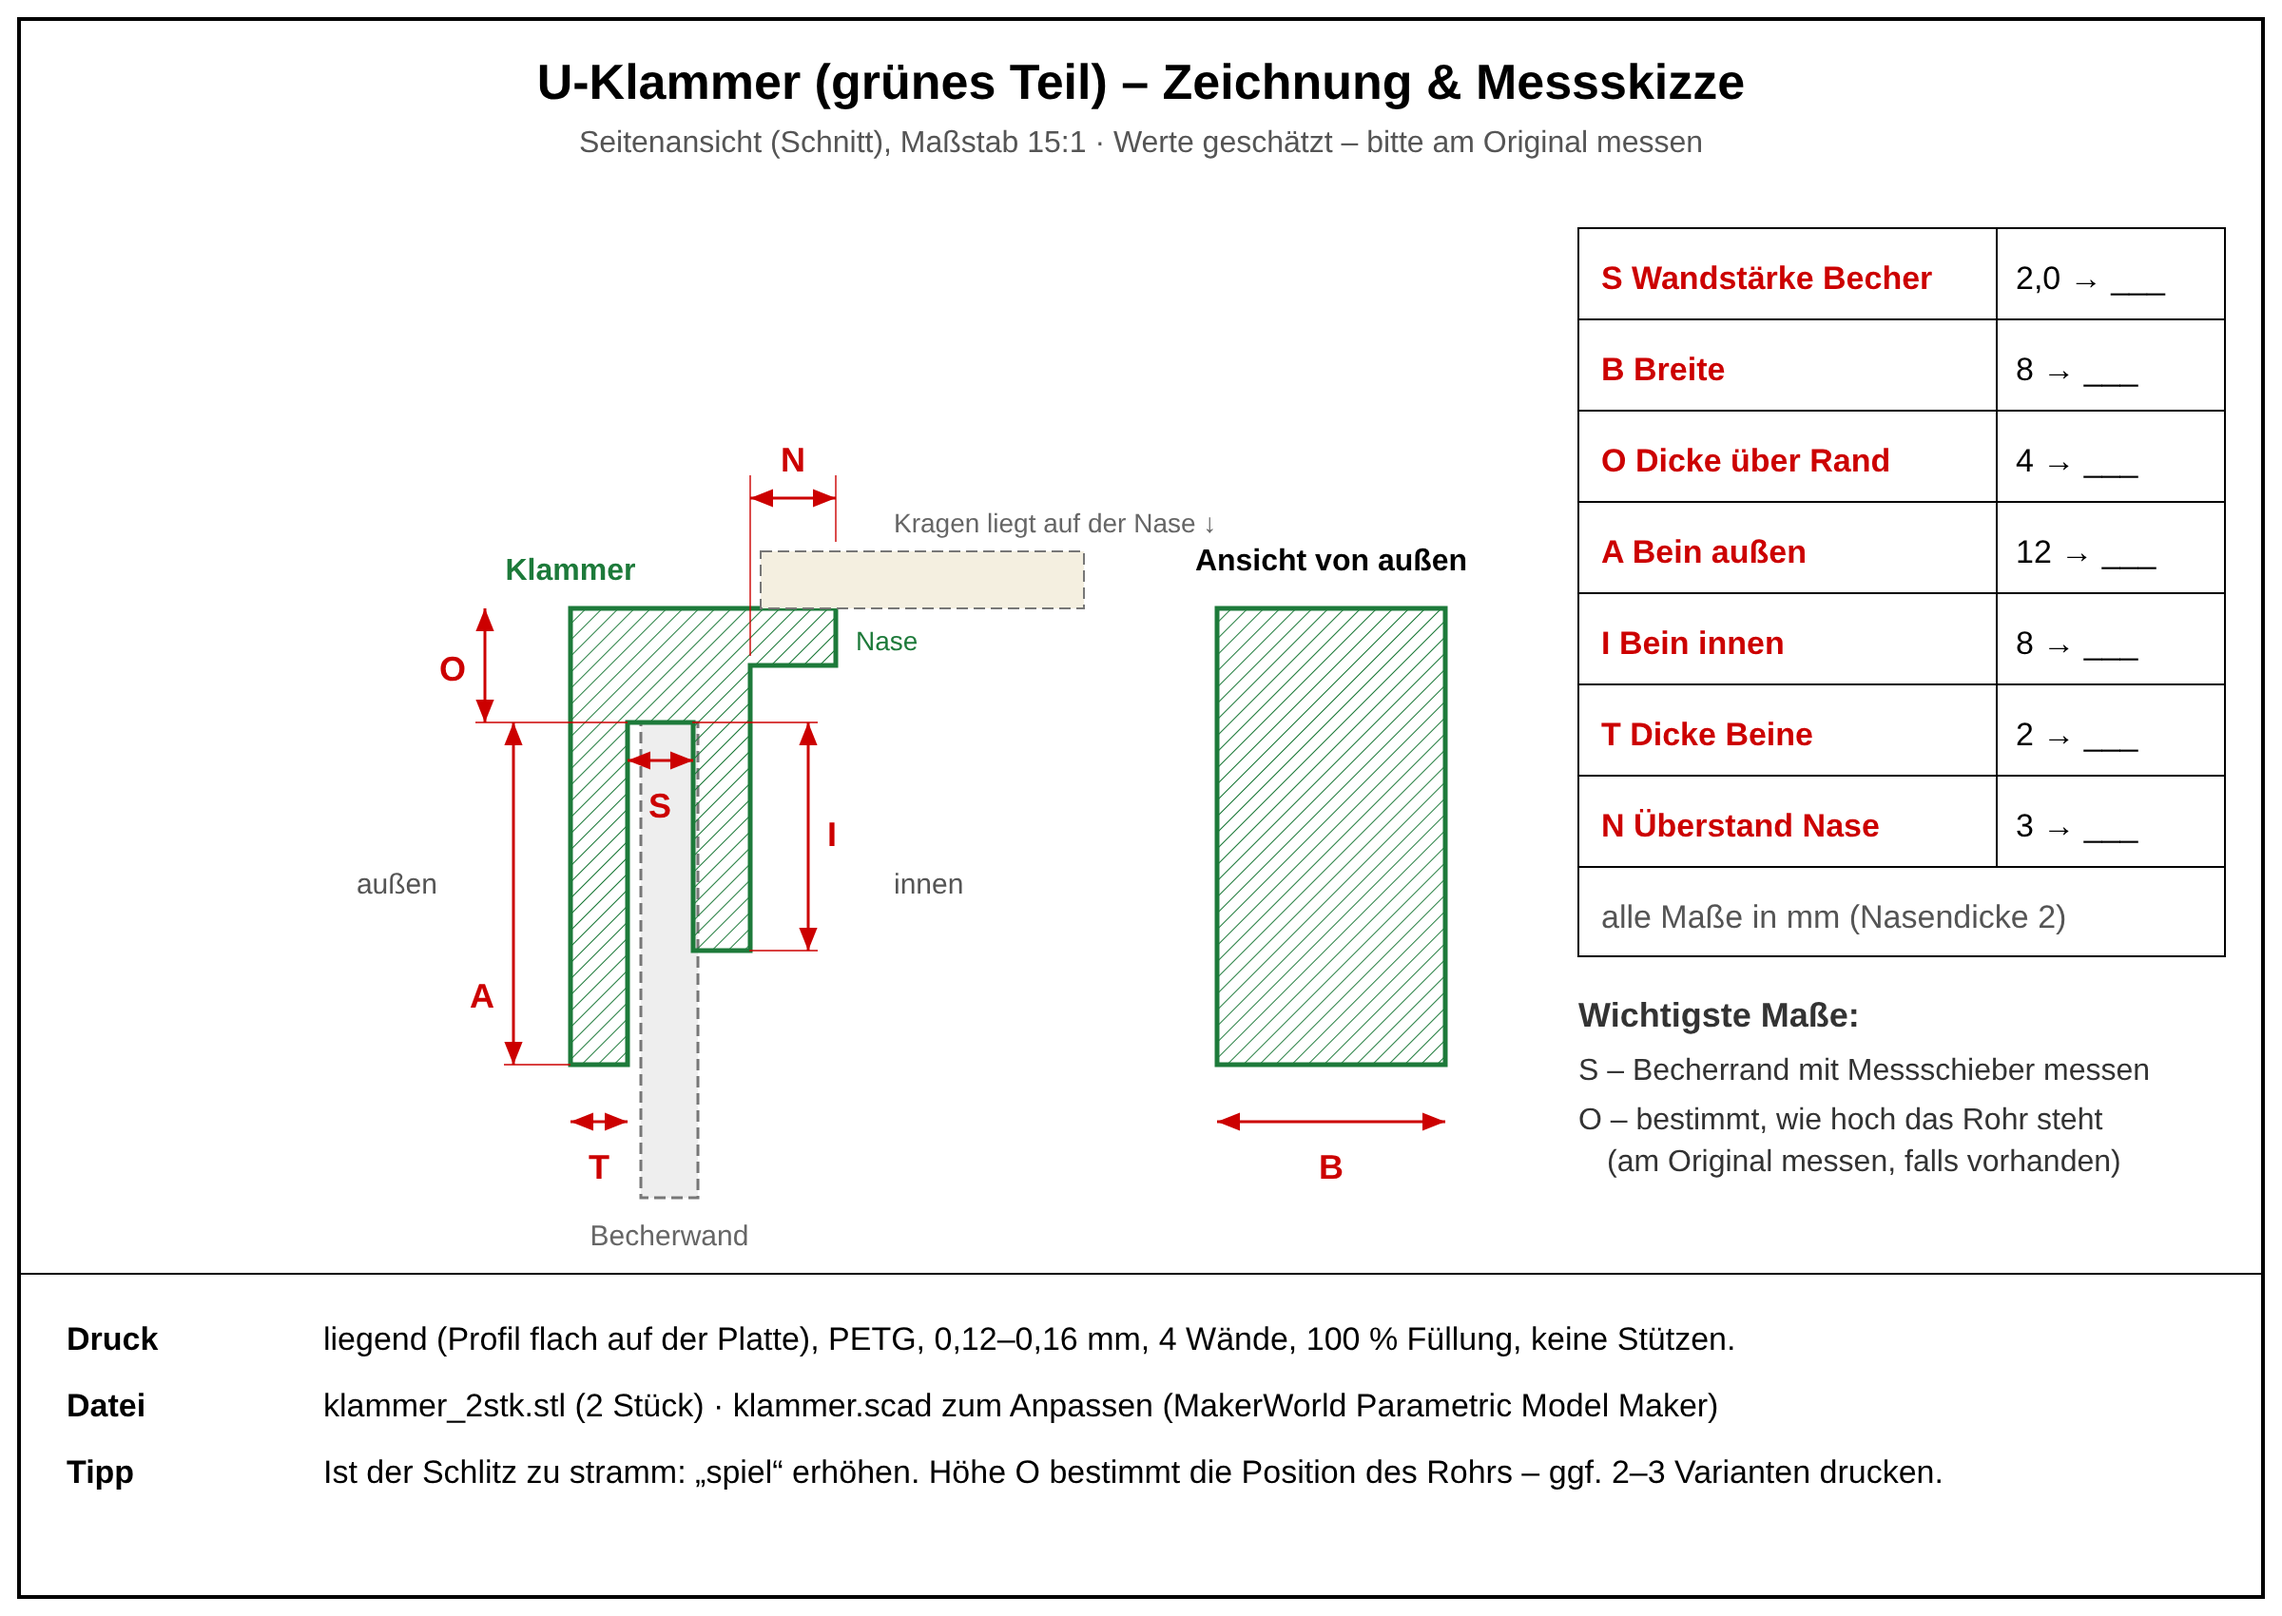
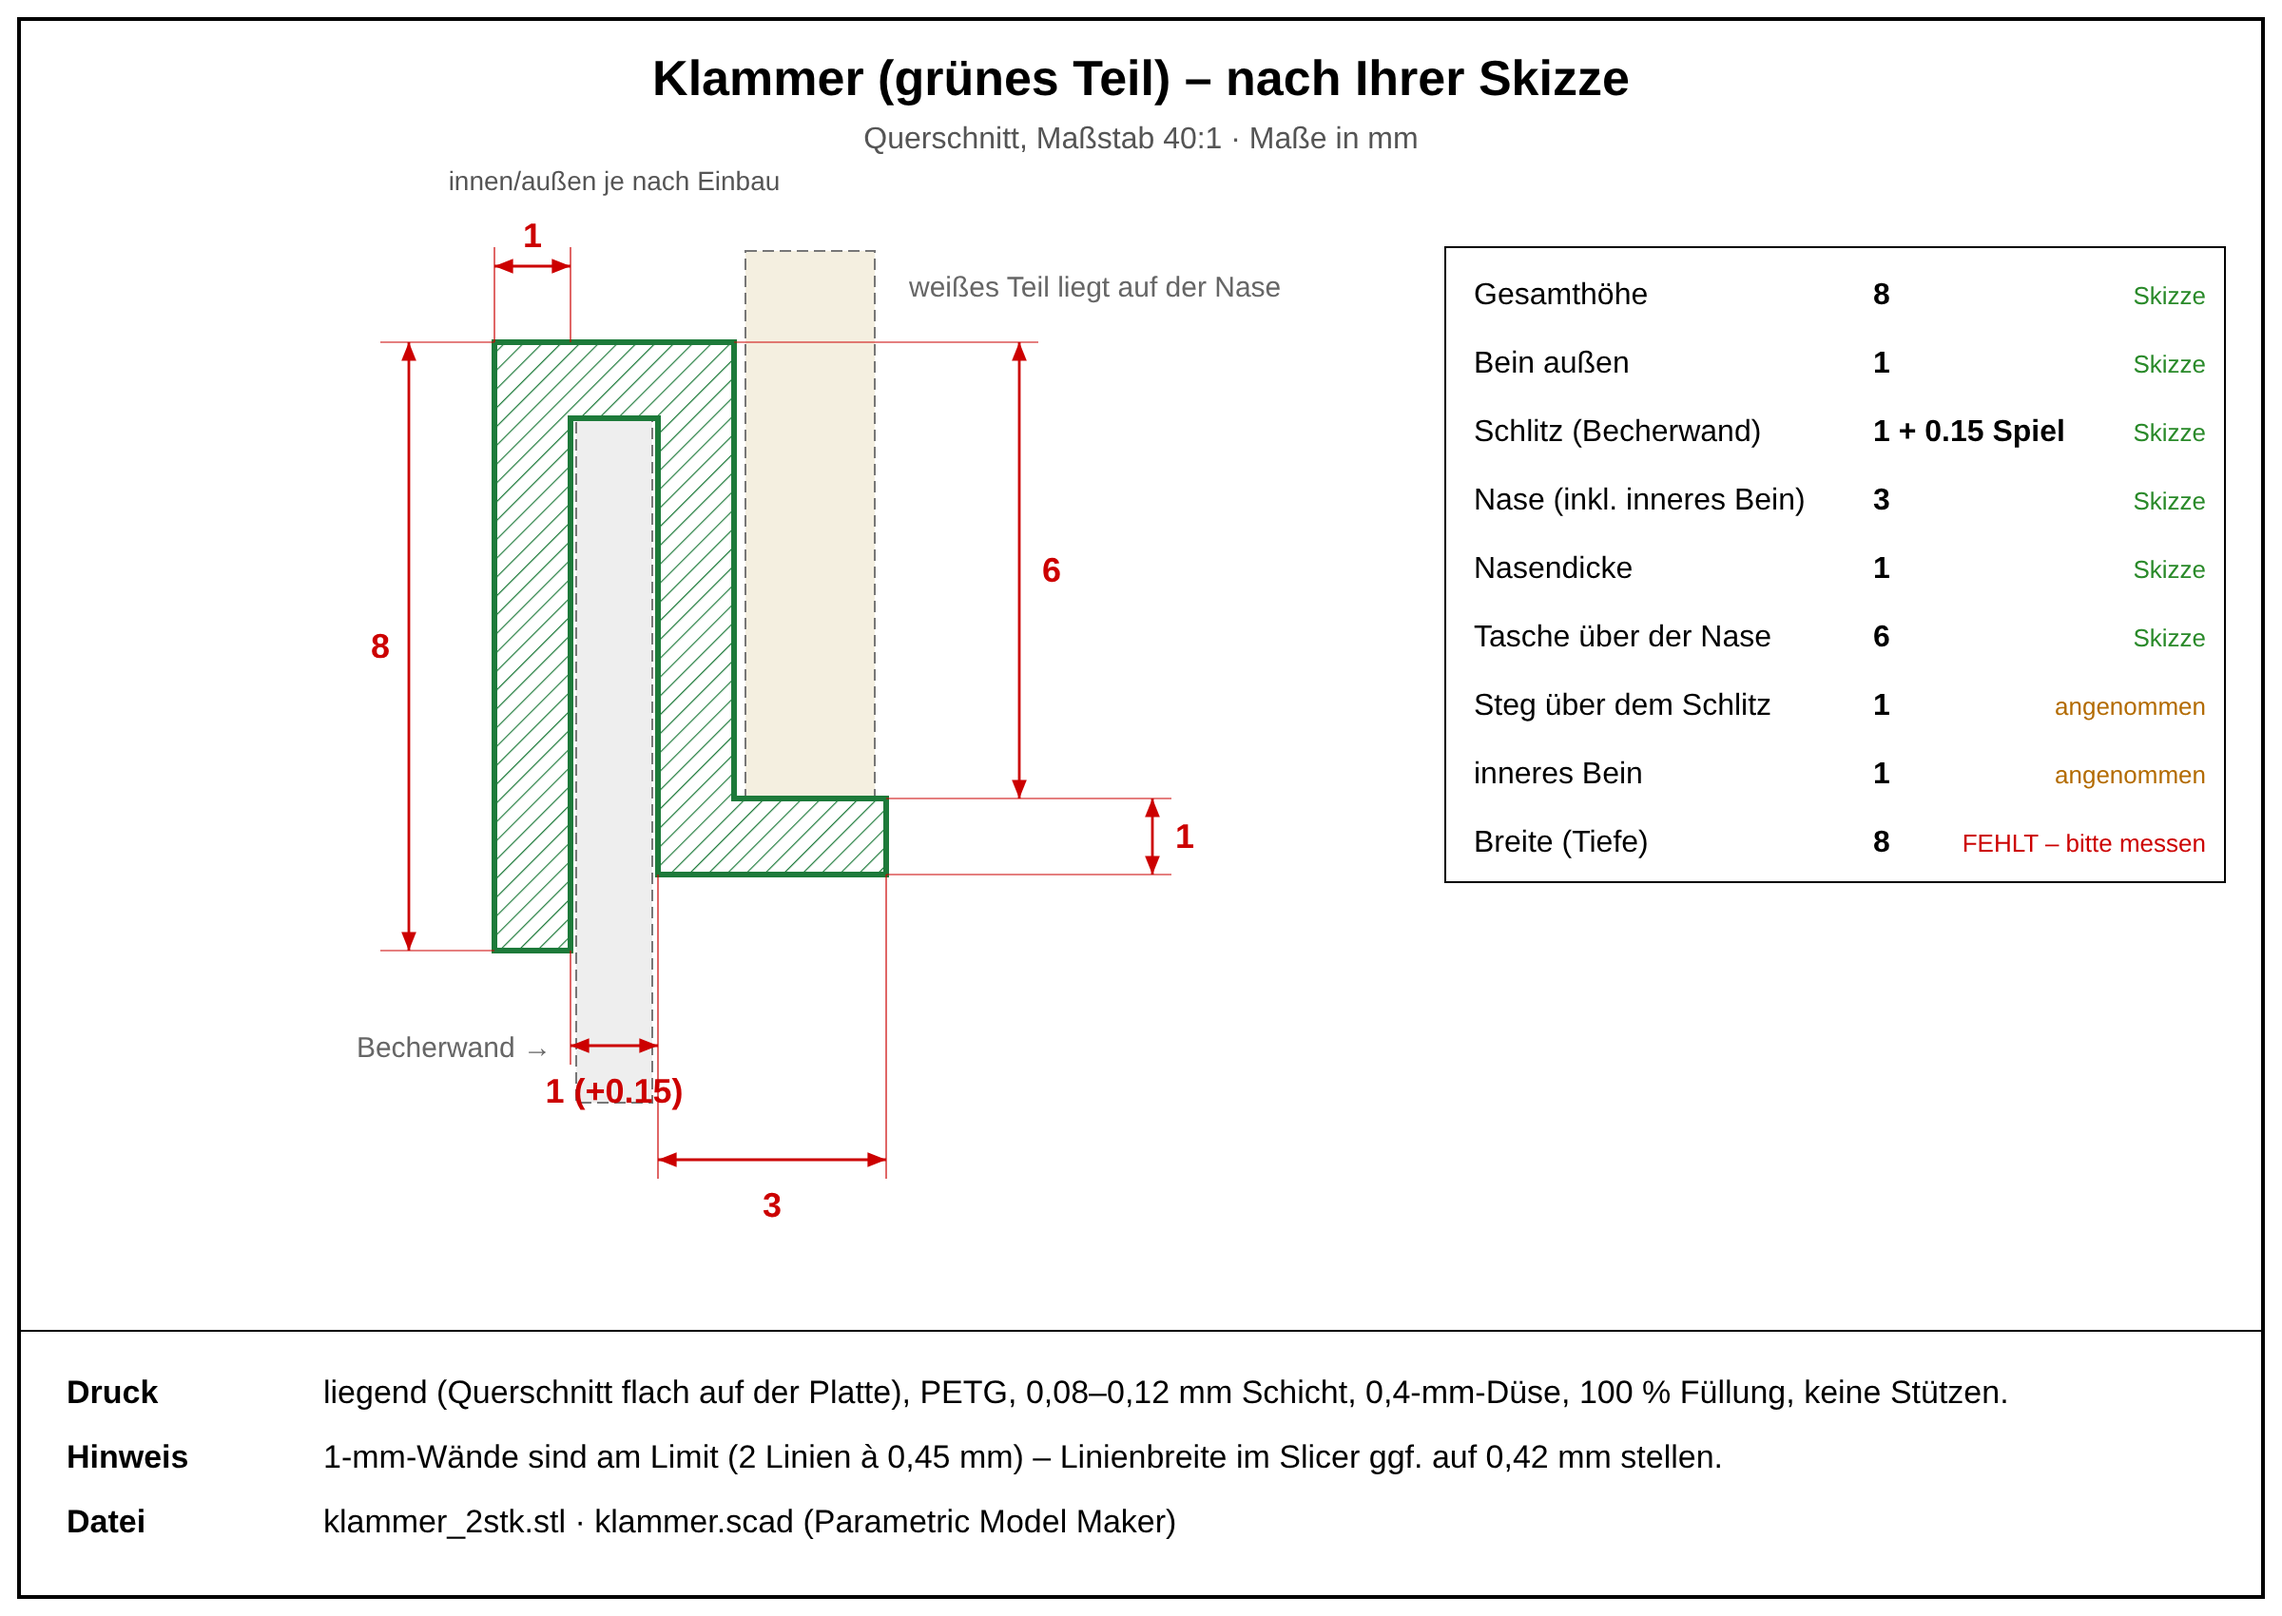
Klammer nach Handskizze des Originals (8 mm hoch, 1-mm-Schlitz, Nase 3x1, Tasche 6)
Claude-Session: https://claude.ai/code/session_015ejh95KRpQS69T9Nq83a24

diff --git a/geberit-klammer/skizze.py b/geberit-klammer/skizze.py
@@ -1,0 +1,68 @@
+#!/usr/bin/env python3
+"""Erzeugt skizze.svg aus den Massen in generate.py."""
+import generate as G
+S = 40.0  # 40:1
+ox, oy = 260, 500          # Ursprung (Unterkante aeusseres Bein)
+X = lambda x: ox + x * S
+Y = lambda y: oy - y * S
+p = G.profil()
+s = G.SCHLITZ + G.SPIEL
+x1, x2, x3 = G.BEIN, G.BEIN + s, G.BEIN + s + G.BEIN_I
+xn = G.BEIN + s + G.NASE_B
+yo = G.HOEHE - G.TASCHE; yu = yo - G.NASE_D; ys = G.HOEHE - G.STEG_OBEN
+o = []; A = o.append
+A('<svg xmlns="http://www.w3.org/2000/svg" width="1200" height="850" viewBox="0 0 1200 850" font-family="Arial, sans-serif">')
+A('<defs><marker id="a" viewBox="0 0 10 10" refX="10" refY="5" markerWidth="7" markerHeight="7" orient="auto-start-reverse"><path d="M0,1 L10,5 L0,9 z" fill="#c00"/></marker>'
+  '<pattern id="h" width="7" height="7" patternUnits="userSpaceOnUse" patternTransform="rotate(45)"><line x1="0" y1="0" x2="0" y2="7" stroke="#1d7a3a" stroke-width="1.2"/></pattern></defs>')
+A('<rect width="1200" height="850" fill="#fff"/><rect x="10" y="10" width="1180" height="830" fill="none" stroke="#000" stroke-width="2"/>')
+A('<text x="600" y="50" font-size="26" font-weight="bold" text-anchor="middle">Klammer (grünes Teil) – nach Ihrer Skizze</text>')
+A('<text x="600" y="78" font-size="16" text-anchor="middle" fill="#555">Querschnitt, Maßstab 40:1 · Maße in mm</text>')
+# Becherwand im Schlitz, weisses Teil auf der Nase
+A(f'<rect x="{X(G.BEIN+G.SPIEL/2):.1f}" y="{Y(G.HOEHE-G.STEG_OBEN):.1f}" width="{G.SCHLITZ*S:.1f}" height="{(G.HOEHE-G.STEG_OBEN+2)*S:.1f}" fill="#eee" stroke="#777" stroke-dasharray="6 3"/>')
+A(f'<text x="{X(x1)-10:.1f}" y="{Y(-1.4):.1f}" font-size="15" fill="#666" text-anchor="end">Becherwand →</text>')
+A(f'<rect x="{X(x3+0.15):.1f}" y="{Y(G.HOEHE+1.2):.1f}" width="{(xn-x3-0.3)*S:.1f}" height="{(G.HOEHE+1.2-yo)*S:.1f}" fill="#f4efe0" stroke="#777" stroke-dasharray="6 3"/>')
+A(f'<text x="{X(xn)+12:.1f}" y="{Y(G.HOEHE+0.6):.1f}" font-size="15" fill="#666">weißes Teil liegt auf der Nase</text>')
+A('<polygon points="' + " ".join(f"{X(x):.1f},{Y(y):.1f}" for x, y in p) + '" fill="url(#h)" stroke="#1d7a3a" stroke-width="3"/>')
+def dim(x1_, y1_, x2_, y2_, t, tx, ty, anc="middle"):
+    A(f'<line x1="{x1_:.1f}" y1="{y1_:.1f}" x2="{x2_:.1f}" y2="{y2_:.1f}" stroke="#c00" stroke-width="1.4" marker-start="url(#a)" marker-end="url(#a)"/>')
+    A(f'<text x="{tx:.1f}" y="{ty:.1f}" font-size="18" fill="#c00" font-weight="bold" text-anchor="{anc}">{t}</text>')
+def ext(x1_, y1_, x2_, y2_):
+    A(f'<line x1="{x1_:.1f}" y1="{y1_:.1f}" x2="{x2_:.1f}" y2="{y2_:.1f}" stroke="#c00" stroke-width="0.6"/>')
+# Hoehe 8
+ext(X(0)-60, Y(0), X(0), Y(0)); ext(X(0)-60, Y(G.HOEHE), X(0), Y(G.HOEHE))
+dim(X(0)-45, Y(0), X(0)-45, Y(G.HOEHE), f"{G.HOEHE:g}", X(0)-55, Y(G.HOEHE/2)+6, "end")
+# Bein 1 (oben)
+ext(X(0), Y(G.HOEHE), X(0), Y(G.HOEHE)-50); ext(X(x1), Y(G.HOEHE), X(x1), Y(G.HOEHE)-50)
+dim(X(0), Y(G.HOEHE)-40, X(x1), Y(G.HOEHE)-40, f"{G.BEIN:g}", X(x1/2), Y(G.HOEHE)-50)
+# Schlitz (unten)
+ext(X(x1), Y(0), X(x1), Y(0)+60); ext(X(x2), Y(yu), X(x2), Y(0)+60)
+dim(X(x1), Y(0)+50, X(x2), Y(0)+50, f"{G.SCHLITZ:g} (+{G.SPIEL:g})", X((x1+x2)/2), Y(0)+80)
+# Nase 3 (unten)
+ext(X(xn), Y(yu), X(xn), Y(0)+120); ext(X(x2), Y(0)+60, X(x2), Y(0)+120)
+dim(X(x2), Y(0)+110, X(xn), Y(0)+110, f"{G.NASE_B:g}", X((x2+xn)/2), Y(0)+140)
+# Tasche 6 und Nase 1 (rechts)
+xr = X(xn) + 70
+ext(X(x3), Y(G.HOEHE), xr + 10, Y(G.HOEHE)); ext(X(xn), Y(yo), xr + 80, Y(yo)); ext(X(xn), Y(yu), xr + 80, Y(yu))
+dim(xr, Y(G.HOEHE), xr, Y(yo), f"{G.TASCHE:g}", xr + 12, Y((G.HOEHE+yo)/2)+6, "start")
+dim(xr + 70, Y(yo), xr + 70, Y(yu), f"{G.NASE_D:g}", xr + 82, Y((yo+yu)/2)+6, "start")
+A(f'<text x="{X(x1+s/2):.1f}" y="{Y(G.HOEHE)-80:.1f}" font-size="14" fill="#555" text-anchor="middle">innen/außen je nach Einbau</text>')
+# Tabelle
+rows = [("Gesamthöhe", f"{G.HOEHE:g}", "Skizze"), ("Bein außen", f"{G.BEIN:g}", "Skizze"),
+        ("Schlitz (Becherwand)", f"{G.SCHLITZ:g} + {G.SPIEL:g} Spiel", "Skizze"),
+        ("Nase (inkl. inneres Bein)", f"{G.NASE_B:g}", "Skizze"), ("Nasendicke", f"{G.NASE_D:g}", "Skizze"),
+        ("Tasche über der Nase", f"{G.TASCHE:g}", "Skizze"),
+        ("Steg über dem Schlitz", f"{G.STEG_OBEN:g}", "angenommen"), ("inneres Bein", f"{G.BEIN_I:g}", "angenommen"),
+        ("Breite (Tiefe)", f"{G.BREITE:g}", "FEHLT – bitte messen")]
+y0 = 130
+A(f'<rect x="760" y="{y0}" width="410" height="{36*len(rows)+10}" fill="none" stroke="#000"/>')
+for i, (k, v, q) in enumerate(rows):
+    y = y0 + 30 + i * 36
+    col = "#c00" if q.startswith("FEHLT") else ("#b36b00" if q == "angenommen" else "#2a8a2a")
+    A(f'<text x="775" y="{y}" font-size="16">{k}</text><text x="985" y="{y}" font-size="16" font-weight="bold">{v}</text>'
+      f'<text x="1160" y="{y}" font-size="13" fill="{col}" text-anchor="end">{q}</text>')
+A('<line x1="10" y1="700" x2="1190" y2="700" stroke="#000"/>')
+A('<text x="35" y="738" font-size="17" font-weight="bold">Druck</text><text x="170" y="738" font-size="17">liegend (Querschnitt flach auf der Platte), PETG, 0,08–0,12 mm Schicht, 0,4-mm-Düse, 100 % Füllung, keine Stützen.</text>')
+A('<text x="35" y="772" font-size="17" font-weight="bold">Hinweis</text><text x="170" y="772" font-size="17">1-mm-Wände sind am Limit (2 Linien à 0,45 mm) – Linienbreite im Slicer ggf. auf 0,42 mm stellen.</text>')
+A('<text x="35" y="806" font-size="17" font-weight="bold">Datei</text><text x="170" y="806" font-size="17">klammer_2stk.stl · klammer.scad (Parametric Model Maker)</text>')
+A('</svg>')
+open("skizze.svg", "w").write("\n".join(o)); print("skizze.svg geschrieben")

diff --git a/geberit-klammer/generate.py b/geberit-klammer/generate.py
@@ -5,32 +5,31 @@ Erzeugt klammer_2stk.stl (2 Stueck, liegend gedruckt).   python3 generate.py
 """
 import math, struct
 
-# ---------------- MASSE (mm) – alle geschaetzt, bitte messen ----------------
-WAND      = 2.0    # Wandstaerke des Becherrands (Schlitz = WAND + SPIEL)
-SPIEL     = 0.3    # Luft im Schlitz
-BREITE    = 8.0    # Breite der Klammer (entlang des Rands)
-OBEN      = 4.0    # Dicke ueber dem Rand = Abstandshoehe fuer den Kragen
-BEIN_A    = 12.0   # Laenge aeusseres Bein (ab Rand nach unten)
-BEIN_I    = 8.0    # Laenge inneres Bein (ab Rand nach unten)
-STEG      = 2.0    # Dicke der Beine
-NASE_L    = 3.0    # wie weit die Nase nach innen uebersteht (Auflage fuer den Kragen)
-NASE_H    = 2.0    # Dicke der Nase
+# ---------------- MASSE (mm) – aus der Handskizze des Originals ----------------
+HOEHE     = 8.0    # Gesamthoehe (aeusseres Bein)
+BEIN      = 1.0    # Dicke aeusseres Bein
+SCHLITZ   = 1.0    # Schlitzbreite (Becherwand) laut Skizze
+SPIEL     = 0.15   # zusaetzliche Luft im Schlitz
+STEG_OBEN = 1.0    # Dicke ueber dem Schlitz (angenommen)
+BEIN_I    = 1.0    # Dicke inneres Bein (angenommen)
+NASE_B    = 3.0    # Breite der Nase ab Aussenkante inneres Bein (inkl. Bein)
+NASE_D    = 1.0    # Dicke der Nase
+TASCHE    = 6.0    # Abstand Oberkante -> Oberseite Nase (Auflage weisses Teil)
+BREITE    = 8.0    # Breite der Klammer (in die Tiefe) – noch nicht gemessen
 ANZAHL    = 2
 # -----------------------------------------------------------------------------
 
 
 def profil():
-    s = WAND + SPIEL
-    t = STEG
-    top = BEIN_A + OBEN
-    xi = 2 * t + s
-    nh = min(NASE_H, top - (BEIN_A - BEIN_I))
-    pts = [(0, 0), (t, 0), (t, BEIN_A), (t + s, BEIN_A), (t + s, BEIN_A - BEIN_I), (xi, BEIN_A - BEIN_I)]
-    if NASE_L > 0:
-        pts += [(xi, top - nh), (xi + NASE_L, top - nh), (xi + NASE_L, top)]
-    else:
-        pts += [(xi, top)]
-    return pts + [(0, top)]
+    """Querschnitt, gegen den Uhrzeigersinn. y=0 = Unterkante aeusseres Bein."""
+    s = SCHLITZ + SPIEL
+    x1, x2, x3 = BEIN, BEIN + s, BEIN + s + BEIN_I
+    xn = BEIN + s + NASE_B
+    y_nase_oben = HOEHE - TASCHE
+    y_nase_unten = max(0.0, y_nase_oben - NASE_D)
+    y_schlitz = HOEHE - STEG_OBEN
+    return [(0, 0), (x1, 0), (x1, y_schlitz), (x2, y_schlitz), (x2, y_nase_unten),
+            (xn, y_nase_unten), (xn, y_nase_oben), (x3, y_nase_oben), (x3, HOEHE), (0, HOEHE)]
 
 
 def earclip(poly):

diff --git a/geberit-klammer/ANLEITUNG.md b/geberit-klammer/ANLEITUNG.md
@@ -1,29 +1,30 @@
-# U-Klammer (grünes Teil) – Geberit Heberglocke AV02 / 5200.017
+# Klammer (grünes Teil) – Geberit Heberglocke AV02 / 5200.017
 
 ![Skizze](skizze.png)
 
-Die zwei grünen U-Klammern werden über den Rand des Gehäusebechers gesteckt.
-Oben steht innen eine **Nase** über, auf der der weiße Kragen des Rohrs aufliegt; die Dicke **O** bestimmt also die Höhe des Rohrs.
+Maße aus der Handskizze des Originals: umgedrehtes U mit 1-mm-Schlitz für die Becherwand,
+unten innen eine Nase, auf der das weiße Teil in einer 6 mm hohen Tasche aufliegt.
 
 ## Dateien
-- `klammer_2stk.stl` – 2 Klammern, fertig zum Drucken (Standardmaße, geschätzt)
-- `klammer.scad` – zum Anpassen (MakerWorld Parametric Model Maker oder OpenSCAD)
-- `generate.py` – erzeugt die STL neu (`python3 generate.py`)
+- `klammer_2stk.stl` – 2 Klammern, druckfertig
+- `klammer.scad` – alle Maße als Regler (MakerWorld Parametric Model Maker / OpenSCAD)
+- `generate.py` / `skizze.py` – erzeugen STL und Skizze neu
 
-## Maße (geschätzt – bitte am Original messen)
-| | Maß | Standard |
+## Maße (mm)
+| Maß | Wert | Quelle |
 |---|---|---|
-| S | Wandstärke Becherrand | 2,0 mm (+0,3 Spiel) |
-| B | Breite | 8 mm |
-| O | Dicke über dem Rand | 4 mm |
-| A | Bein außen | 12 mm |
-| I | Bein innen | 8 mm |
-| T | Dicke der Beine | 2 mm |
-| N | Überstand der Nase nach innen (Auflage für den Kragen) | 3 mm (Dicke 2 mm) |
+| Gesamthöhe | 8 | Skizze |
+| Bein außen | 1 | Skizze |
+| Schlitz (Becherwand) | 1 + 0,15 Spiel | Skizze |
+| Nase inkl. inneres Bein | 3 | Skizze |
+| Nasendicke | 1 | Skizze |
+| Tasche über der Nase | 6 | Skizze |
+| Steg über dem Schlitz | 1 | angenommen |
+| inneres Bein | 1 | angenommen |
+| Breite (Tiefe) | 8 | **fehlt – bitte messen** |
 
-## Drucken (Bambu Studio / MakerWorld)
-1. `klammer_2stk.stl` importieren – die Klammern liegen bereits flach (Profil auf der Platte).
-2. PETG, 0,12–0,16 mm Schicht, 4 Wände, 100 % Füllung, **keine Stützen**.
-3. Slicen → an den A1 mini senden. Druckzeit wenige Minuten.
-
-Tipp: Sitzt die Klammer zu stramm auf dem Rand → `spiel` erhöhen. Zu locker → verringern.
+## Drucken
+1. `klammer_2stk.stl` in Bambu Studio importieren – liegt schon richtig (Querschnitt flach).
+2. PETG, Schicht 0,08–0,12 mm, 100 % Füllung, keine Stützen.
+3. 1-mm-Wände sind für die 0,4-mm-Düse knapp: Linienbreite der Wände ggf. auf 0,42 mm stellen.
+4. Klammer zu stramm auf dem Becherrand → `spiel` erhöhen; zu locker → verringern.
